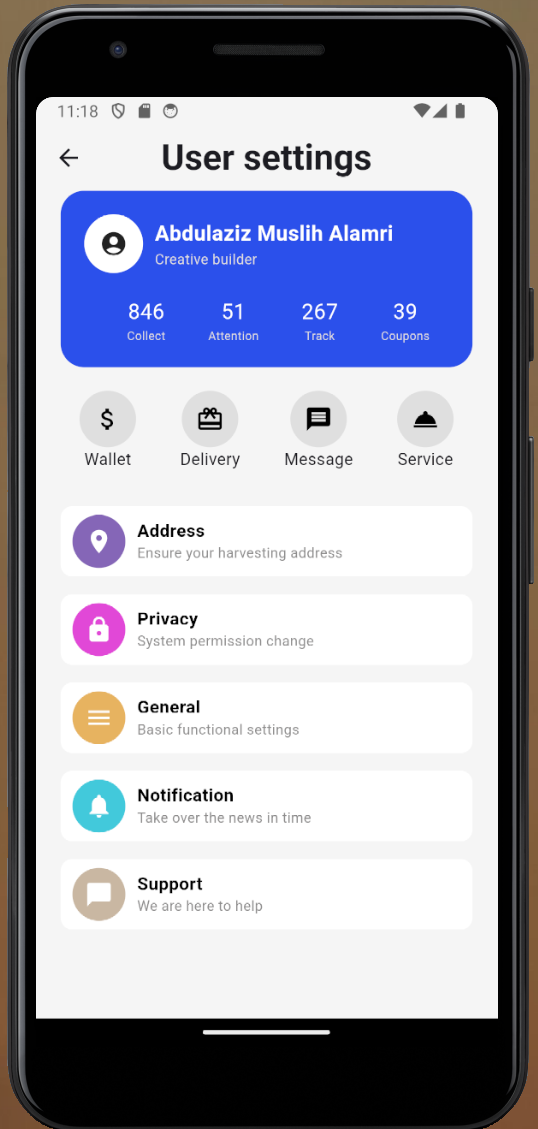
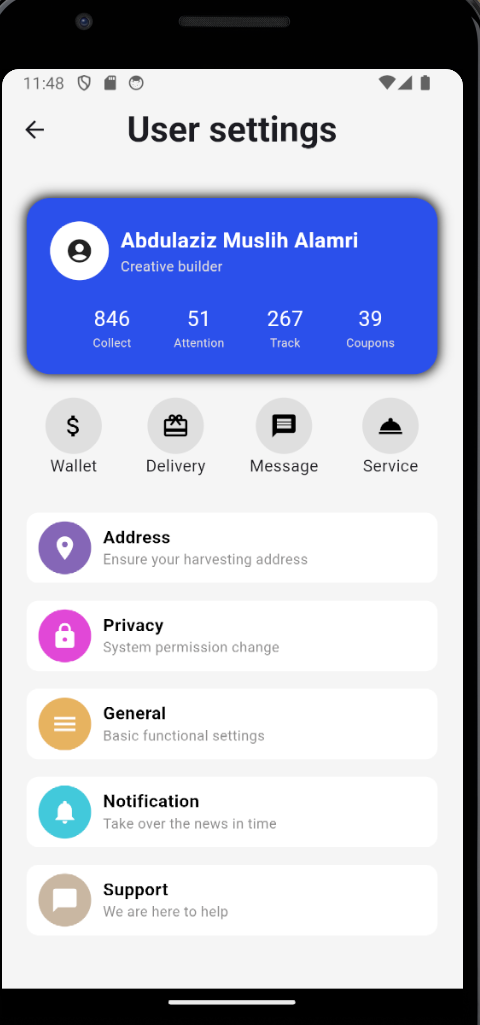
added shadowBox to user Container and updated README.md

diff --git a/lib/settings_screen.dart b/lib/settings_screen.dart
@@ -9,12 +9,12 @@ class SettingsScreen extends StatelessWidget {
       backgroundColor: const Color.fromARGB(255, 245, 245, 245),
       appBar: AppBar(
         centerTitle: true,
-        leading: BackButton(onPressed: (){}),
+        leading: BackButton(onPressed: () {}),
         backgroundColor: const Color.fromARGB(255, 245, 245, 245),
         title: Text('User settings',
             style: TextStyle(fontSize: 30, fontWeight: FontWeight.bold)),
       ),
-      body: ListView(children: [
+      body: ListView(padding: EdgeInsets.only(top: 30), children: [
         Column(
           children: [
             Container(
@@ -22,6 +22,14 @@ class SettingsScreen extends StatelessWidget {
                 height: 150,
                 width: 350,
                 decoration: BoxDecoration(
+                  boxShadow: [
+                    BoxShadow(
+                        blurRadius: 8,
+                        blurStyle: BlurStyle.normal,
+                        color: Colors.black,
+                        offset: Offset.zero,
+                        spreadRadius: 1)
+                  ],
                   borderRadius: BorderRadius.circular(20),
                   color: const Color.fromARGB(255, 41, 80, 235),
                 ),

diff --git a/README.md b/README.md
@@ -17,6 +17,7 @@ User settings page that can be used in applications to personalize settings and 
 - Used IceButton and BackButton
 - Used SizeBox to add spaces between widgets that do not have padding attribute
 - Used circle Containers to place icons in as shown in UI design
+- Used BoxShadow on Container 
 
 
 ## Screenshots
